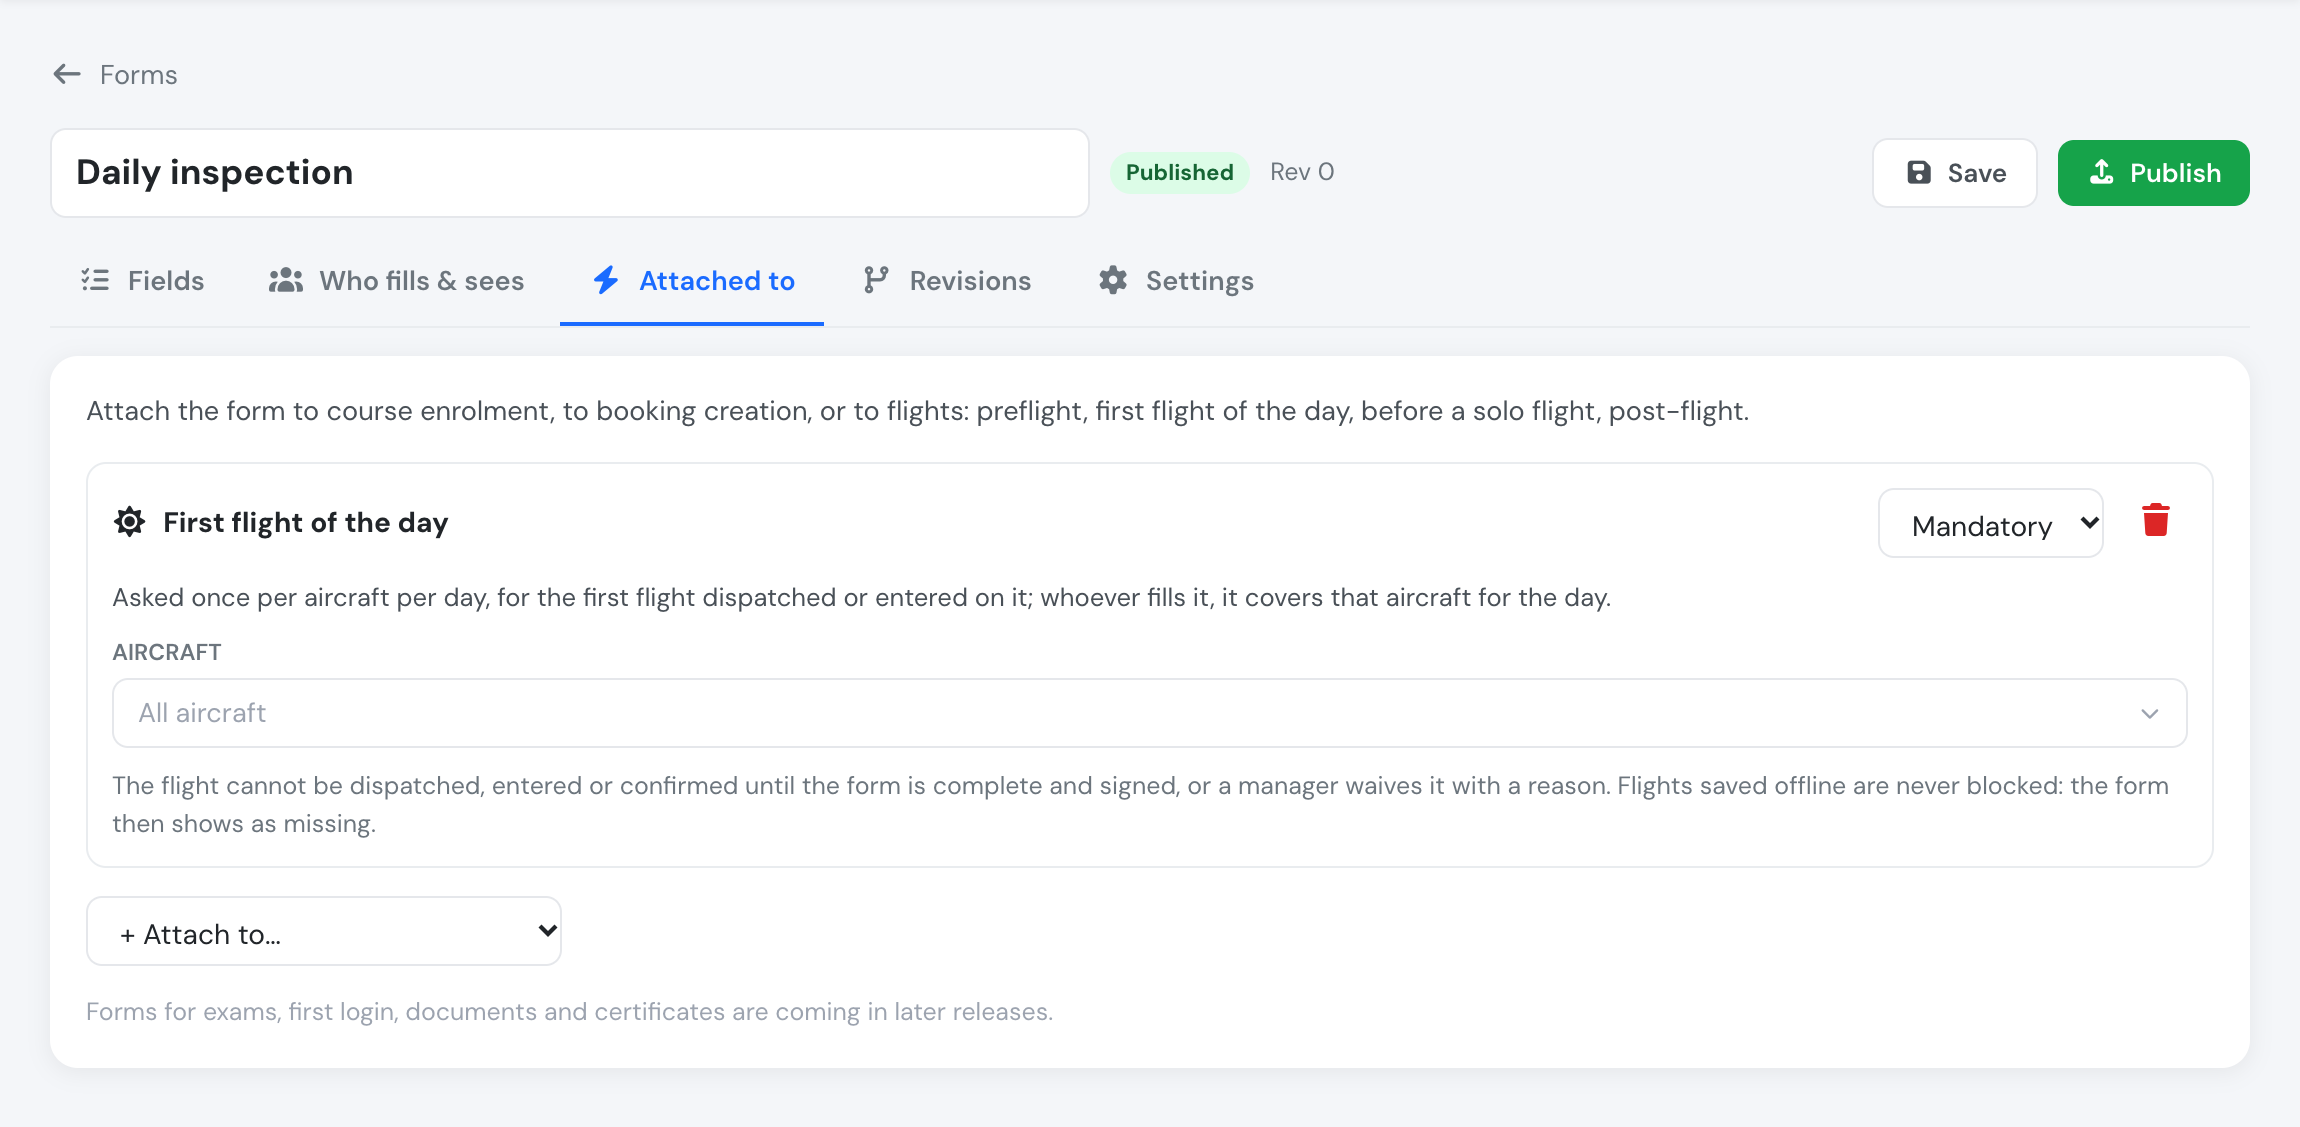
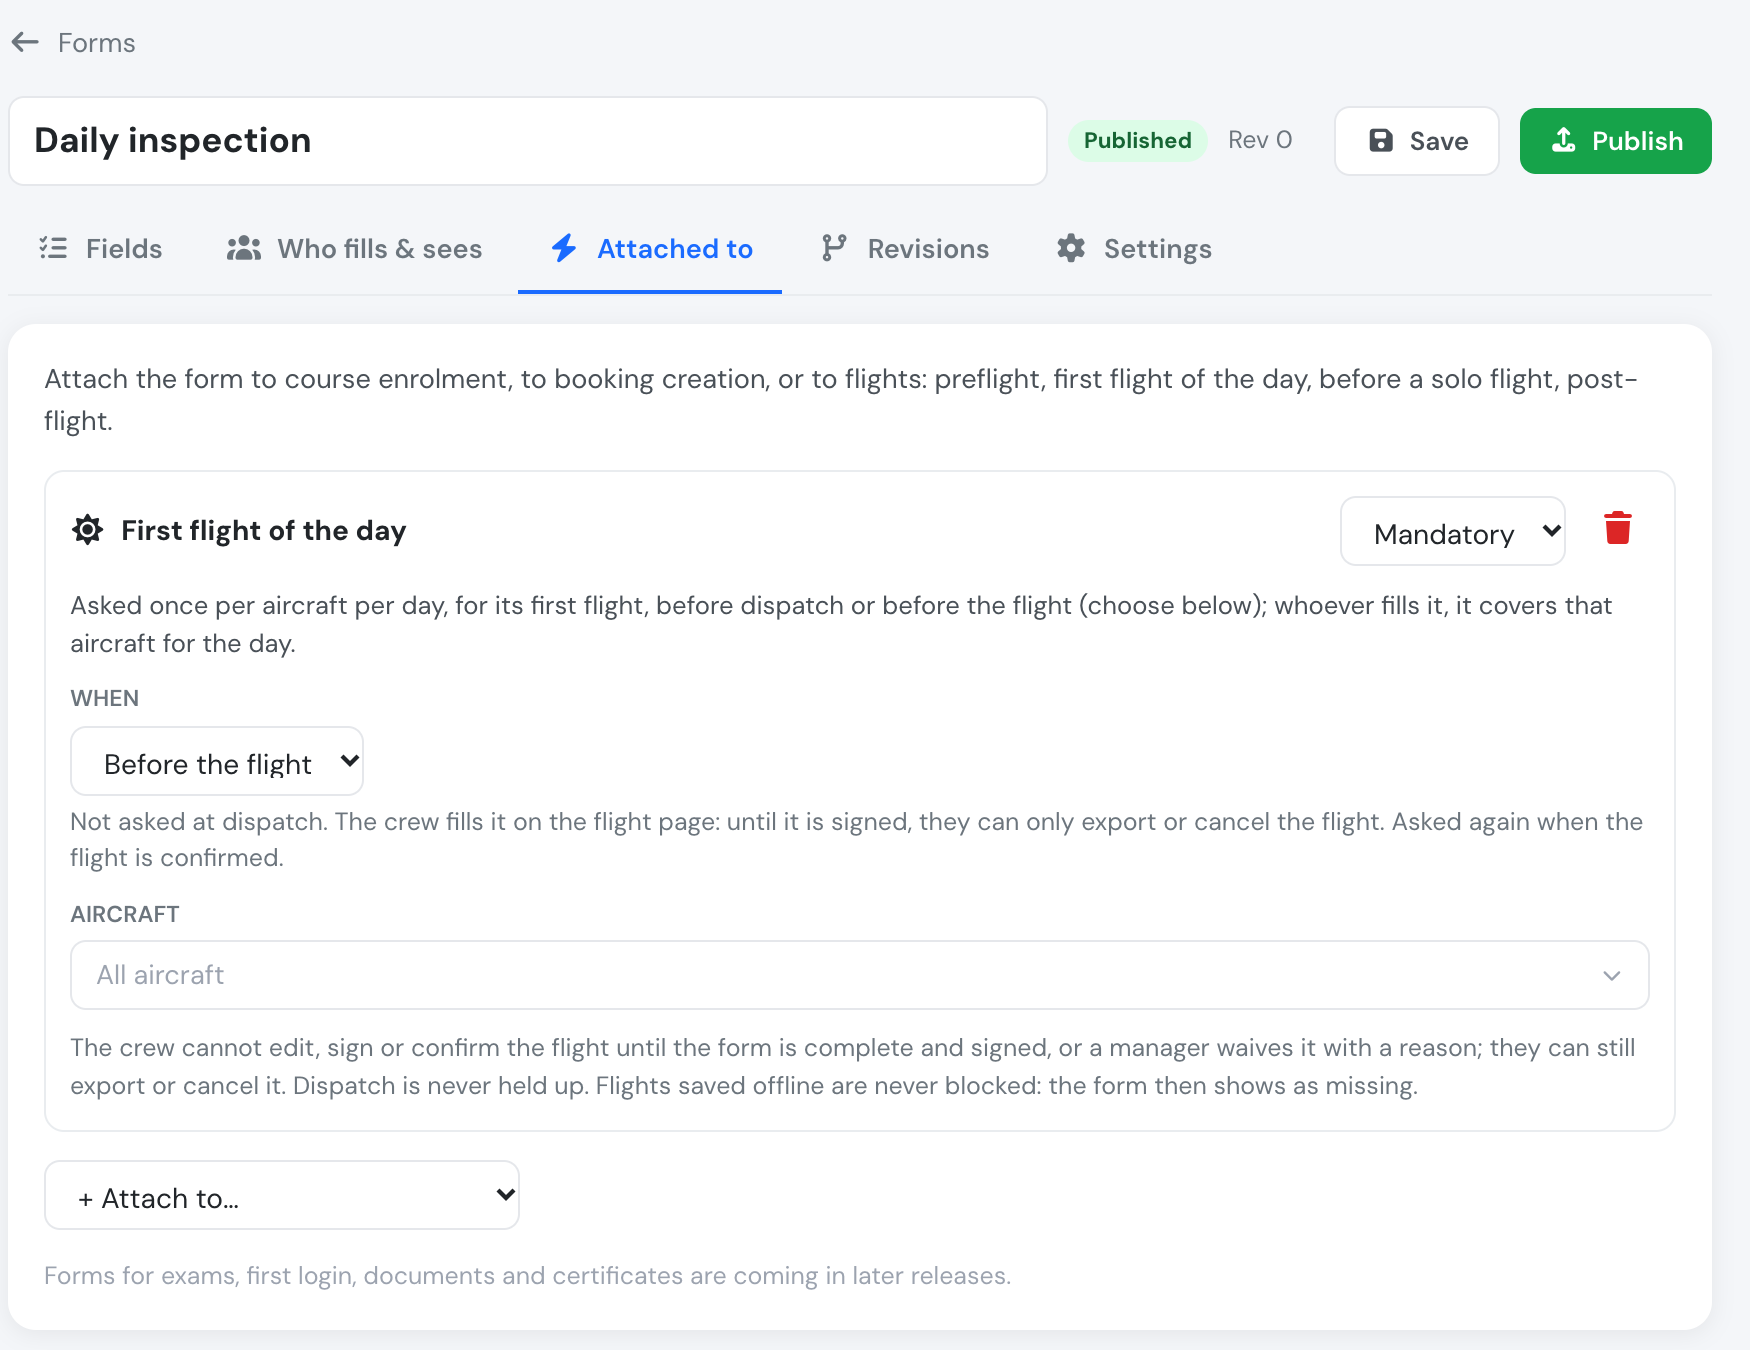
docs(custom-forms): before dispatch vs before the flight
When setting on preflight / first flight of the day / solo forms, the
flight-page gate for crew, the API timing field and parameter; new and
refreshed screenshots.

diff --git a/company-management/custom-forms.md b/company-management/custom-forms.md
@@ -30,10 +30,10 @@ The **Start from a template** panel, on the right of **Home → Forms**, holds r
 
 | Template | What it holds | Set up as |
 | --- | --- | --- |
-| Daily inspection | Walk-around checks, a fuel slip photo shown only when the aircraft was refuelled, and a defect description shown only when a defect was found | First flight of the day, mandatory, filled by the PIC |
-| Fitness to fly (IMSAFE) | The pilot's personal declaration: illness, medication, stress, alcohol, fatigue, eating | Preflight, mandatory, filled by the PIC |
+| Daily inspection | Walk-around checks, a fuel slip photo shown only when the aircraft was refuelled, and a defect description shown only when a defect was found | First flight of the day, before the flight, mandatory, filled by the PIC |
+| Fitness to fly (IMSAFE) | The pilot's personal declaration: illness, medication, stress, alcohol, fatigue, eating | Preflight, before the flight, mandatory, filled by the PIC |
 | Post-flight report | Fuel uplifted, technical issues and occurrences to report to safety | Post-flight, skippable, filled by the PIC |
-| Solo flight briefing | Weather and NOTAMs, aircraft, authorised exercise and limits, student fit to fly | Before a solo flight, mandatory, filled by the instructor / supervisor |
+| Solo flight briefing | Weather and NOTAMs, aircraft, authorised exercise and limits, student fit to fly | Before a solo flight, before dispatch, mandatory, filled by the instructor / supervisor |
 | Course application | Personal details, licence held, total flight time, medical certificate and a declaration | Course enrolment, skippable, filled by the student or on their behalf |
 | Disciplinary action record | The person concerned (a person field that sets who the record is about), what happened, the action taken (verbal, written or final warning, suspension), corrective action, review date and the person's statement | Not attached to anything; filled by managers and signed with their password |
 
@@ -42,7 +42,7 @@ The template's text appears in your language. Once saved, the form is yours like
 <figure><img src="../.gitbook/assets/custom-forms-template-builder.png" alt="Form builder opened from the Disciplinary action record template, with its sections and fields"><figcaption><p>The Disciplinary action record template opened in the builder, ready to review and save.</p></figcaption></figure>
 
 {% hint style="warning" %}
-A template attached to flights as **mandatory** blocks dispatch from the moment you publish it. Check the **Attached to** tab before you press **Publish**, and switch it to **Skippable** or narrow it to some aircraft if you want to try it out first.
+A template attached to flights as **mandatory** blocks dispatch (or, for *before the flight* forms, the flight page) from the moment you publish it. Check the **Attached to** tab before you press **Publish**, and switch it to **Skippable** or narrow it to some aircraft if you want to try it out first.
 {% endhint %}
 
 ## Building a form
@@ -160,25 +160,42 @@ On the **Attached to** tab you can also attach a form to flights:
 
 | Attached to | Asked | Can be limited to |
 | --- | --- | --- |
-| **Preflight** | in the dispatch window of a booking or flight, when a new flight is entered online, and again in the confirm window if still missing | flight types, aircraft |
-| **First flight of the day** | the same places, once per aircraft per day: whoever fills it, it covers that aircraft for the rest of the day | aircraft |
-| **Before a solo flight** | the same places, for flights on a training mission that needs a mission authorisation | courses |
+| **Preflight** | before every flight, at the moment chosen in **When** (see below), and again in the confirm window if still missing | flight types, aircraft |
+| **First flight of the day** | the same, once per aircraft per day: whoever fills it, it covers that aircraft for the rest of the day | aircraft |
+| **Before a solo flight** | the same, for flights on a training mission that needs a mission authorisation | courses |
 | **Post-flight** | in the confirm window | flight types, aircraft |
 | **Booking creation** | when someone books a flight for themselves | flight types, aircraft |
 
-<figure><img src="../.gitbook/assets/custom-forms-attached-first-flight.png" alt=""><figcaption><p>A form attached to the first flight of the day, as mandatory.</p></figcaption></figure>
+<figure><img src="../.gitbook/assets/custom-forms-attached-first-flight.png" alt="Attached to tab with a mandatory First flight of the day trigger, When set to Before the flight, for all aircraft"><figcaption><p>A form attached to the first flight of the day, as mandatory, filled before the flight.</p></figcaption></figure>
+
+### Before dispatch or before the flight
+
+*Preflight*, *first flight of the day* and *before a solo flight* forms have a **When** setting:
+
+| When | Asked | Who fills it |
+| --- | --- | --- |
+| **Before dispatch** (default) | in the dispatch window of a booking or flight — from the schedule, the manager's schedule review or the flight page — and when a new flight is entered online. **Dispatch** stays off until the mandatory ones are signed or waived | whoever dispatches, if allowed to fill it (the crew member in the form's seat, the form's filling groups, managers) |
+| **Before the flight** | not at dispatch. Once the flight exists, the flight page shows the form at the top. Until the mandatory ones are signed or waived, the crew sees only **Export**, **Cancel Flight** and, for a flight not dispatched yet, **Dispatch Flight**: no **Edit**, **Confirm**, preflight signature or delete | the crew member in the form's seat (or the form's filling groups and managers on their behalf) |
+
+Use **Before the flight** for forms the crew fills at the aircraft — a daily inspection, a fitness-to-fly declaration — so that a dispatcher who is not on the flight, for example a manager dispatching from the schedule review, is not held up by a form only the pilot can fill. Use **Before dispatch** for forms the person releasing the flight must see signed, such as a solo briefing.
+
+<figure><img src="../.gitbook/assets/custom-forms-flight-page-gate.png" alt="Flight page of a draft flight with the Forms to complete before the flight banner, a mandatory Daily inspection not started with Fill in and Waive, and only Dispatch Flight, Export and Cancel Flight in the top bar"><figcaption><p>A <em>before the flight</em> form still to sign: the crew can only dispatch, export or cancel the flight until it is filled in, or a manager waives it.</p></figcaption></figure>
+
+The flight page only holds back the flight's own crew (PIC, SIC, instructor / supervisor). Staff who are not on the flight keep their buttons and see the form at the top, which managers can fill or waive. **Confirm** asks for both kinds again, so a flight cannot be confirmed with either missing.
+
+Existing forms keep **Before dispatch**. The *Daily inspection* and *Fitness to fly* templates start as **Before the flight**, the *Solo flight briefing* as **Before dispatch**.
 
 **Who fills it**: on *Who fills & sees*, choose the crew member — PIC (default), SIC, instructor / supervisor, or any crew member. Managers and the form's filling groups can always fill it on the crew's behalf.
 
 <figure><img src="../.gitbook/assets/custom-forms-who-fills-flight.png" alt=""><figcaption><p>Who fills &amp; sees for a flight form: the PIC fills it in.</p></figcaption></figure>
 
-**Mandatory** flight forms block the step until they are signed or a manager waives them with a reason: the **Dispatch** button, saving a new flight, or **Confirm**. **Skippable** ones are offered and can be skipped.
+**Mandatory** flight forms block the step until they are signed or a manager waives them with a reason: the **Dispatch** button and saving a new flight (*before dispatch* forms), the flight page (*before the flight* forms), or **Confirm**. **Skippable** ones are offered and can be skipped.
 
 **Confirm** checks the preflight forms again, not only the post-flight ones. A flight cannot be confirmed (signed) while a mandatory *preflight*, *first flight of the day* or *before a solo flight* form that applies to it is still missing. This catches flights that got past dispatch without the form: a flight saved offline, a flight whose aircraft, flight type or training mission was changed after it was saved, or a flight dispatched before the form was attached. The confirm window lists the missing preflight forms above the post-flight ones, so the pilot can fill them in and sign them there, or a manager can waive them.
 
 <figure><img src="../.gitbook/assets/custom-forms-confirm-preflight.png" alt="Post-flight signature window with the Before the flight section listing a mandatory preflight form not started, and Sign and confirm disabled"><figcaption><p>A flight that never had its preflight form signed: <strong>Sign and confirm</strong> stays off until the form is filled in and signed, or waived.</p></figcaption></figure>
 
-<figure><img src="../.gitbook/assets/custom-forms-dispatch-fill.png" alt="Before the flight section of the dispatch window with the daily inspection being filled in"><figcaption><p>The pilot fills in and signs the daily inspection in the dispatch window. Dispatch stays off until every mandatory form is signed.</p></figcaption></figure>
+<figure><img src="../.gitbook/assets/custom-forms-dispatch-fill.png" alt="Before the flight section of the dispatch window with the daily inspection being filled in"><figcaption><p>A <em>before dispatch</em> form filled in and signed in the dispatch window. Dispatch stays off until every mandatory one is signed.</p></figcaption></figure>
 
 What is never blocked:
 
@@ -186,7 +203,7 @@ What is never blocked:
 * flights already confirmed, imported flights and flights recorded from ADS-B;
 * bookings made by staff for someone else, bookings created by Auto Pilot and copied weeks.
 
-A form filled before the flight exists (for a new flight or a booking) is attached to the flight once it is saved or dispatched. The flight page lists its preflight and post-flight forms. The same form can be both preflight and post-flight: each is a separate copy.
+A form filled before the flight exists (for a new flight or a booking) is attached to the flight once it is saved or dispatched. The flight page lists its before-dispatch, before-the-flight and post-flight forms. The same form can be both preflight and post-flight: each is a separate copy.
 
 ### Booking forms
 

diff --git a/API/custom-forms.md b/API/custom-forms.md
@@ -288,13 +288,17 @@ Deletes a `DRAFT` copy with its signatures, history and files. Allowed for the u
 
 Trigger types `PREFLIGHT`, `POSTFLIGHT`, `BOOKING` (scope `flight_type_ids`, `aircraft_ids`), `FIRST_FLIGHT_OF_DAY` (`aircraft_ids`) and `SOLO` (`training_ids`; applies when a training mission on the flight has `require_authorization > 0`). Stages: `PRE` = preflight, first flight of the day, solo; `POST` = post-flight; `BOOK` = booking creation.
 
+`PRE` triggers carry a `timing`: `DISPATCH` (default) — required by `schedules/flight` and `flights/dispatch` whoever dispatches, and by a new flight saved online; `FLIGHT` — not required at dispatch nor when saving a new flight; the crew fills it on the flight page. `flights/confirm` requires both. `timing` is accepted in `manager_save` triggers (ignored on other types) and returned by `manager_view`, `flight_definitions` and `flight_forms` (`null` on non-`PRE` offers).
+
 A scope id that does not belong to the company (flight type, aircraft, course) makes `manager_save` answer `{"result": false, "errors": {"triggers": [{"path": "triggers.0.scope.aircraft_ids", "code": "SCOPE_NOT_FOUND"}]}}`; nothing is saved. `CustomForm.fill_seat`: `PIC` (default), `SIC`, `SUPERVISOR`, `ANY_CREW`.
 
 ### Forms of a flight
 
 <mark style="color:blue;">`GET`</mark> `/custom_forms/flight_forms.json?stage=PRE|POST|BOOK&schedule_id=` · `&flight_id=` · `&token=<uuid>&aircraft_id=&flight_type_id=&date=YYYY-MM-DD&mission_ids[]=`
 
-`offered` (each with `type`, `mode`, `trigger_id`, open `response`) and `responses` (this stage's copies) for a booking, a flight, or a flight not saved yet (a client-generated uuid `token`). Staff above `user_group_id` 145 only for flights they crew. `stage=BOOK` needs a `token` (the booking dialog's).
+`offered` (each with `type`, `mode`, `timing`, `trigger_id`, open `response`) and `responses` (this stage's copies) for a booking, a flight, or a flight not saved yet (a client-generated uuid `token`). Staff above `user_group_id` 145 only for flights they crew. `stage=BOOK` needs a `token` (the booking dialog's).
+
+With `stage=PRE`, add `&timing=DISPATCH` for only the forms asked at dispatch, or `&timing=FLIGHT` for only those the crew fills on the flight page; `responses` is narrowed the same way. Without it, every preflight-stage form.
 
 ### Starting a flight form
 

diff --git a/API/reference/custom-forms.md b/API/reference/custom-forms.md
@@ -258,13 +258,17 @@ Deletes a `DRAFT` copy with its signatures, history and files. Allowed for the u
 
 Trigger types `PREFLIGHT`, `POSTFLIGHT`, `BOOKING` (scope `flight_type_ids`, `aircraft_ids`), `FIRST_FLIGHT_OF_DAY` (`aircraft_ids`) and `SOLO` (`training_ids`; applies when a training mission on the flight has `require_authorization > 0`). Stages: `PRE` = preflight, first flight of the day, solo; `POST` = post-flight; `BOOK` = booking creation.
 
+`PRE` triggers carry a `timing`: `DISPATCH` (default) — required by `schedules/flight` and `flights/dispatch` whoever dispatches, and by a new flight saved online; `FLIGHT` — not required at dispatch nor when saving a new flight; the crew fills it on the flight page. `flights/confirm` requires both. `timing` is accepted in `manager_save` triggers (ignored on other types) and returned by `manager_view`, `flight_definitions` and `flight_forms` (`null` on non-`PRE` offers).
+
 A scope id that does not belong to the company (flight type, aircraft, course) makes `manager_save` answer `{"result": false, "errors": {"triggers": [{"path": "triggers.0.scope.aircraft_ids", "code": "SCOPE_NOT_FOUND"}]}}`; nothing is saved. `CustomForm.fill_seat`: `PIC` (default), `SIC`, `SUPERVISOR`, `ANY_CREW`.
 
 ### Forms of a flight
 
 <mark style="color:blue;">`GET`</mark> `/custom_forms/flight_forms.json?stage=PRE|POST|BOOK&schedule_id=` · `&flight_id=` · `&token=<uuid>&aircraft_id=&flight_type_id=&date=YYYY-MM-DD&mission_ids[]=`
 
-`offered` (each with `type`, `mode`, `trigger_id`, open `response`) and `responses` (this stage's copies) for a booking, a flight, or a flight not saved yet (a client-generated uuid `token`). Staff above `user_group_id` 145 only for flights they crew. `stage=BOOK` needs a `token` (the booking dialog's).
+`offered` (each with `type`, `mode`, `timing`, `trigger_id`, open `response`) and `responses` (this stage's copies) for a booking, a flight, or a flight not saved yet (a client-generated uuid `token`). Staff above `user_group_id` 145 only for flights they crew. `stage=BOOK` needs a `token` (the booking dialog's).
+
+With `stage=PRE`, add `&timing=DISPATCH` for only the forms asked at dispatch, or `&timing=FLIGHT` for only those the crew fills on the flight page; `responses` is narrowed the same way. Without it, every preflight-stage form.
 
 ### Starting a flight form
 
